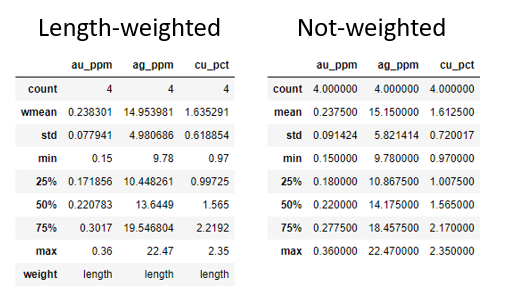
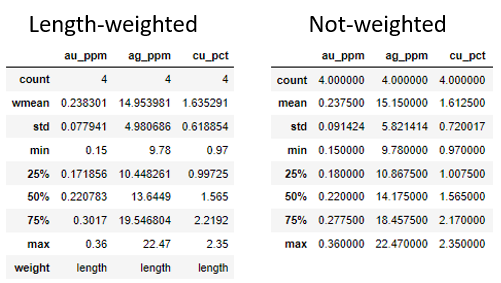
2nd commit
Update in the variance calculation.

diff --git a/describew.py b/describew.py
@@ -11,10 +11,16 @@ def describew(df, var, weight):
         Count.append(len(df[v]))
         wavrg = np.average(df[v], weights=df[weight])
         WMean.append(wavrg)
-        variance = (np.average((df[v] - wavrg) ** 2, weights=df[weight]))
-        STD.append(math.sqrt(variance))
         Minimum.append(df[v].min())
         Maximum.append(df[v].max())
+
+        # Variance and STD determination
+        v1 = df[weight].sum()
+        v1exp2 = v1 ** 2
+        v2 = (df[weight] ** 2).sum()
+        numerator = (((df[v] - wavrg) ** 2) * df[weight]).sum()
+        variance = v1 / (v1exp2 - v2) * numerator
+        STD.append(math.sqrt(variance))
 
         # Quantiles determination
         sort_idx = np.argsort(df[v])
@@ -40,6 +46,7 @@ def describew(df, var, weight):
                            '50%': Q50,
                            '75%': Q75,
                            'max': Maximum,
-                           'weight': weight})
+                           'weight': weight,
+                           'variance': variance})
     result.set_index('', inplace=True)
     return result.transpose()
